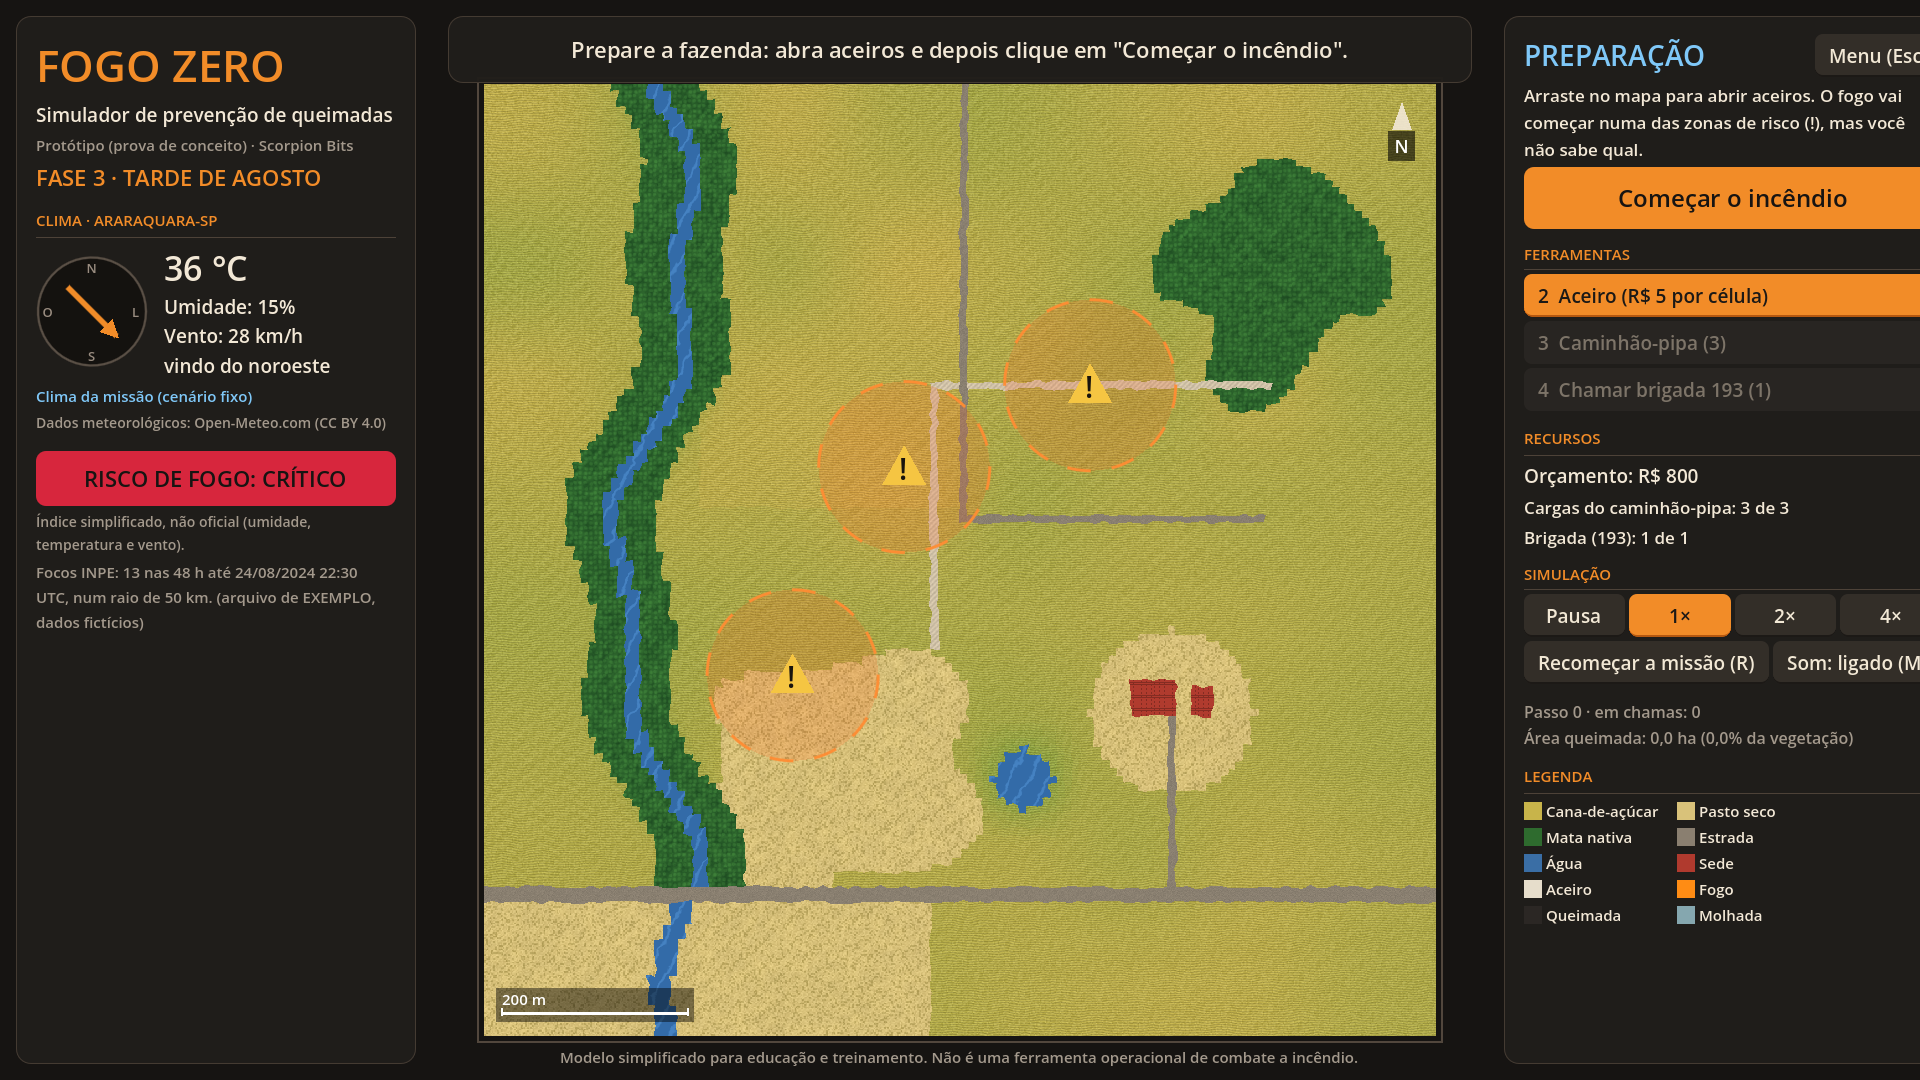
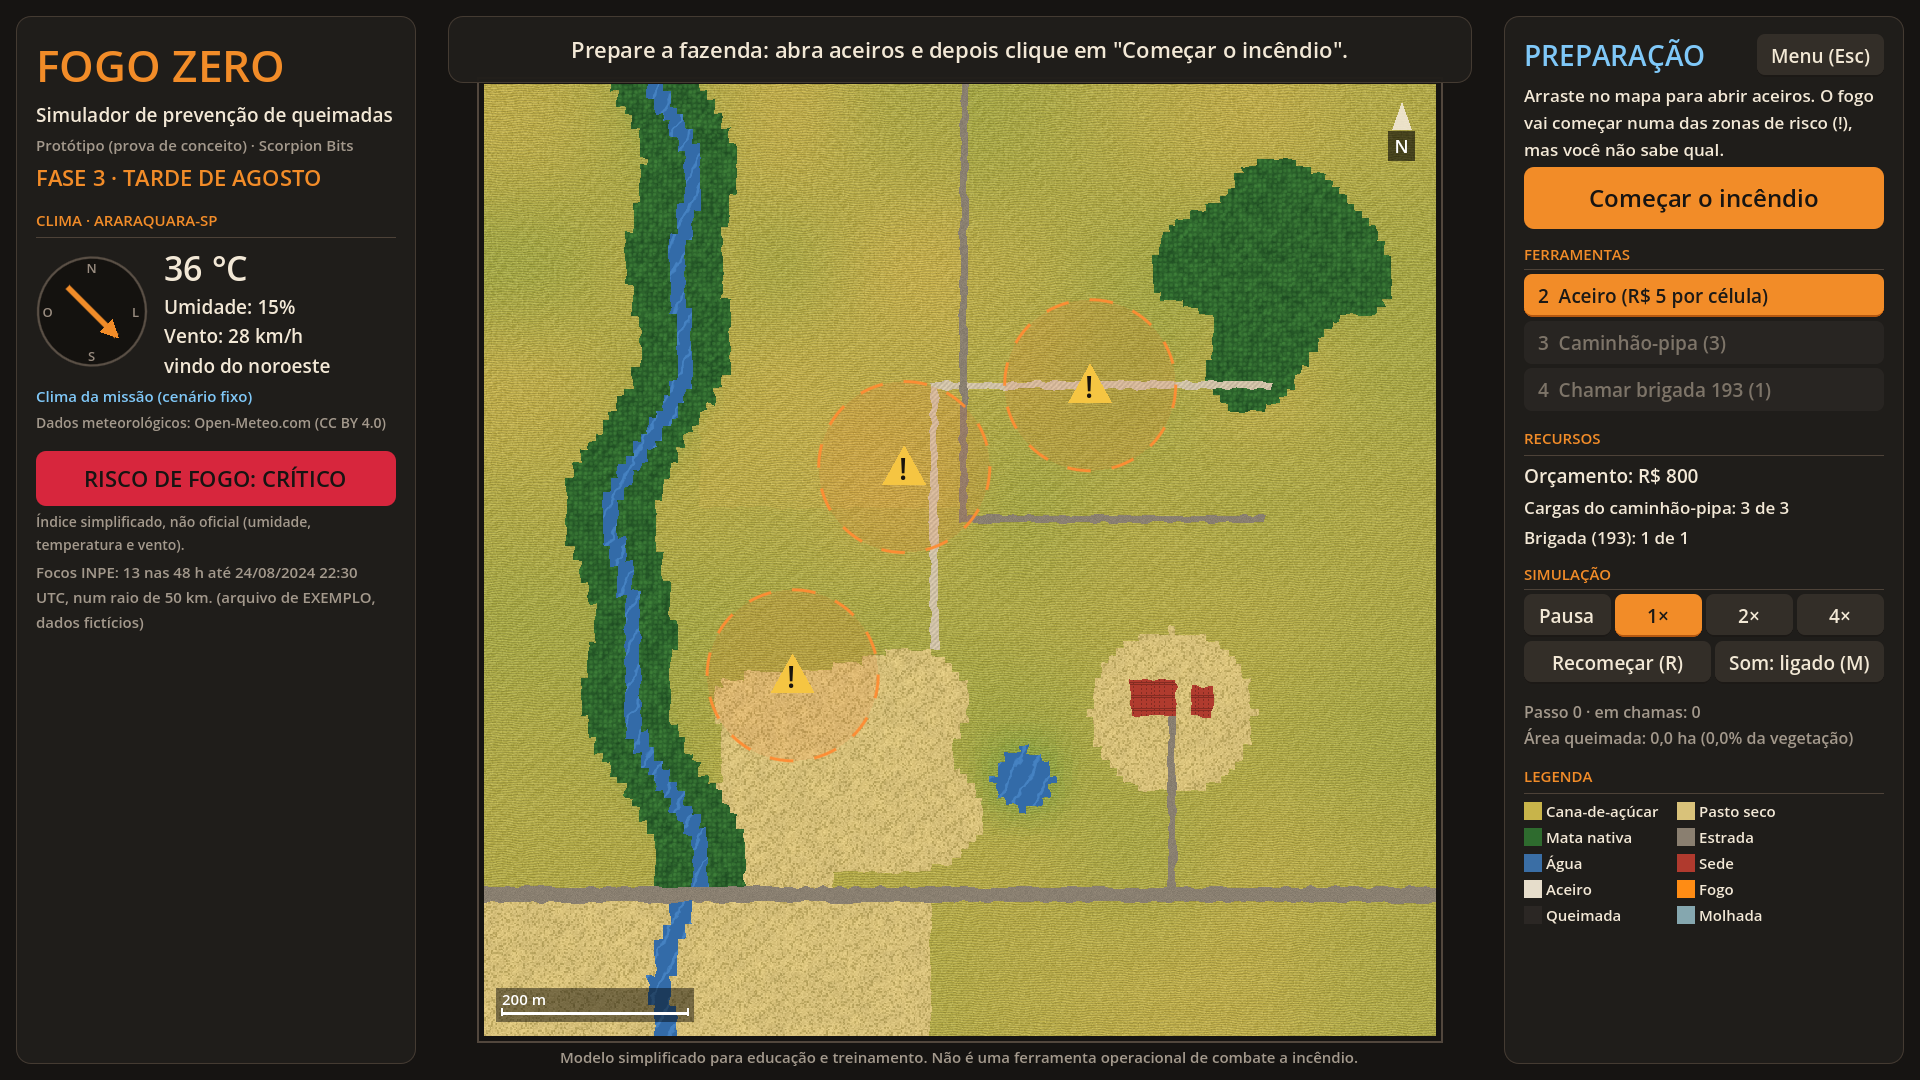
Revisão geral: painel do jogo sem corte e correções pequenas
- O painel direito do jogo passava da largura prevista e ficava cortado na
  lateral (botões Menu e Som). Textos mais curtos e um teste novo
  (testes/medir_hud.gd) que confere a largura dos painéis.
- A escolha de som ligado ou mudo fica salva.
- Um arrasto de aceiro não continua na partida seguinte.
- O resultado da demonstração não aparece mais por cima de uma demonstração
  recomeçada.
- Mapa real: nova tentativa de um download antigo não interfere no novo.
- Modo personalizado avisa quando o mapa quase não tem cana ou pasto.
- capturar_tela.gd guarda e devolve o progresso salvo; capturas refeitas.

Changed region(s): [[0.8125, 0.0306, 1.0, 0.2139], [0.8125, 0.55, 1.0, 0.6417], [0.9688, 0.2444, 1.0, 0.3056]]

diff --git a/README.md b/README.md
@@ -87,7 +87,7 @@ A missão termina quando o fogo acaba (e não há mais eventos) ou quando o fogo
 | Pausar / continuar | **Espaço**, ou os botões Pausa, 1×, 2× e 4× |
 | Recomeçar a missão | **R** (mesma missão, mesmo sorteio) |
 | Voltar | **Esc** ou o botão *Menu* |
-| Ligar / desligar o som | **M** ou o botão *Som* |
+| Ligar / desligar o som | **M** ou o botão *Som* (a escolha fica salva) |
 
 ### Campanha, dificuldade e pontuação
 
@@ -433,7 +433,7 @@ recursos/    simulacao_config.tres, tema.tres, mapa.gdshader
 mapas/       exemplo_terreno.png, exemplo_secura.png, drone_teste_*.png (saída do pipeline)
 dados/       focos_exemplo_ficticio.csv, teste_sintetico.tif, teste_sintetico_rgb.png
 ferramentas/ converter_mapa.py, gerar_mapa_exemplo.py, gravar_demo.sh, requirements.txt
-testes/      teste_simulacao.gd, calibrar_fases.gd, teste_mapa_real.gd, salvar_sons.gd, quadros_demo.gd,
+testes/      teste_simulacao.gd, medir_hud.gd, calibrar_fases.gd, teste_mapa_real.gd, salvar_sons.gd, quadros_demo.gd,
              capturar_tela.gd, gravar_demo.gd
 capturas/    capturas de tela e vídeo da demonstração
 ```
@@ -466,8 +466,8 @@ Na última execução, um passo mais o desenho levou cerca de **3,2 ms** com 1.1
 mesmo tempo, folgado para 60 fps.
 
 `testes/quadros_demo.gd -- --imagens=PASTA` salva quadros do modo demonstração e serve para ajustar o
-roteiro. `testes/capturar_tela.gd -- --pasta=capturas` gera as capturas de tela (ele apaga o progresso
-salvo), `testes/gravar_demo.gd` grava o vídeo, `testes/calibrar_fases.gd` mostra a dificuldade de cada fase
+roteiro. `testes/capturar_tela.gd -- --pasta=capturas` gera as capturas de tela (o progresso salvo é
+guardado e devolvido no fim), `testes/medir_hud.gd` confere se os painéis do jogo cabem na tela, `testes/gravar_demo.gd` grava o vídeo, `testes/calibrar_fases.gd` mostra a dificuldade de cada fase
 e `testes/teste_mapa_real.gd -- --lat=… --lon=… --pasta=…` baixa um mapa real e salva a foto e a grade
 (precisa de internet).
 
